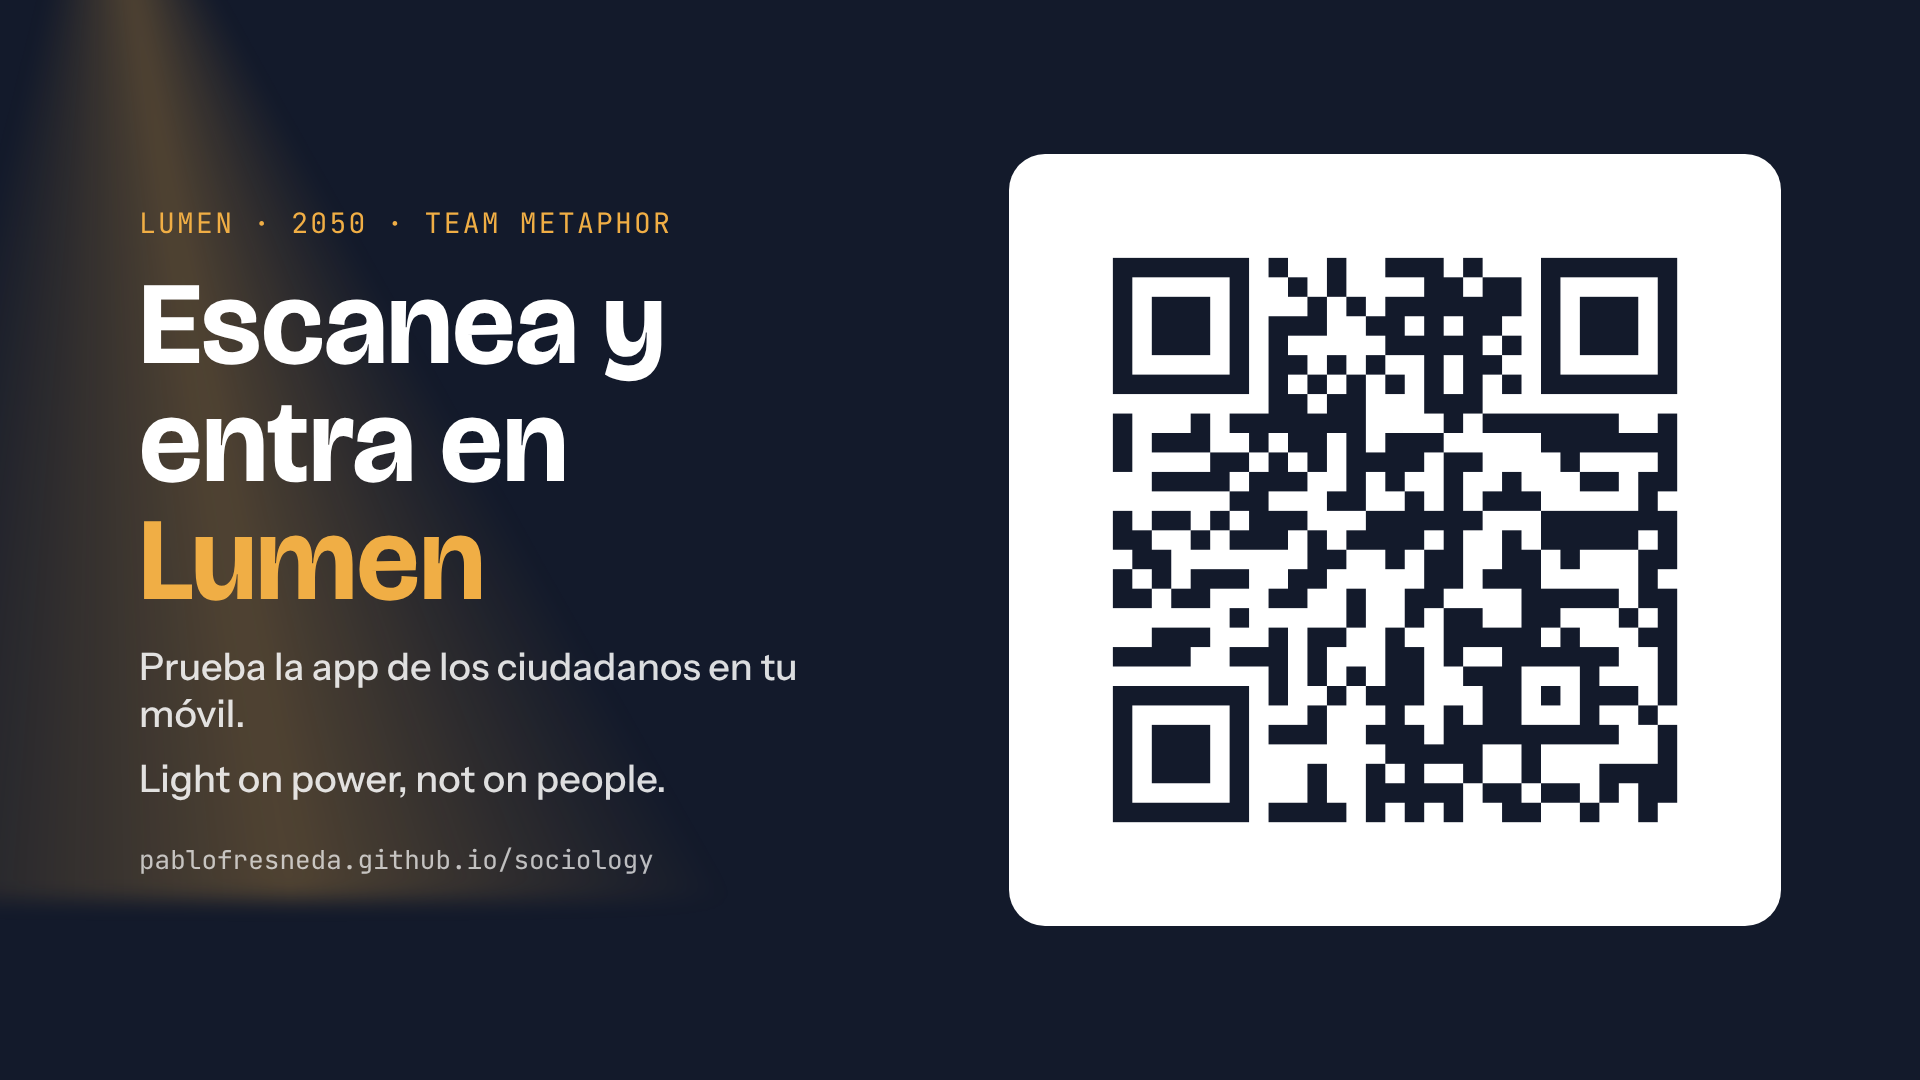
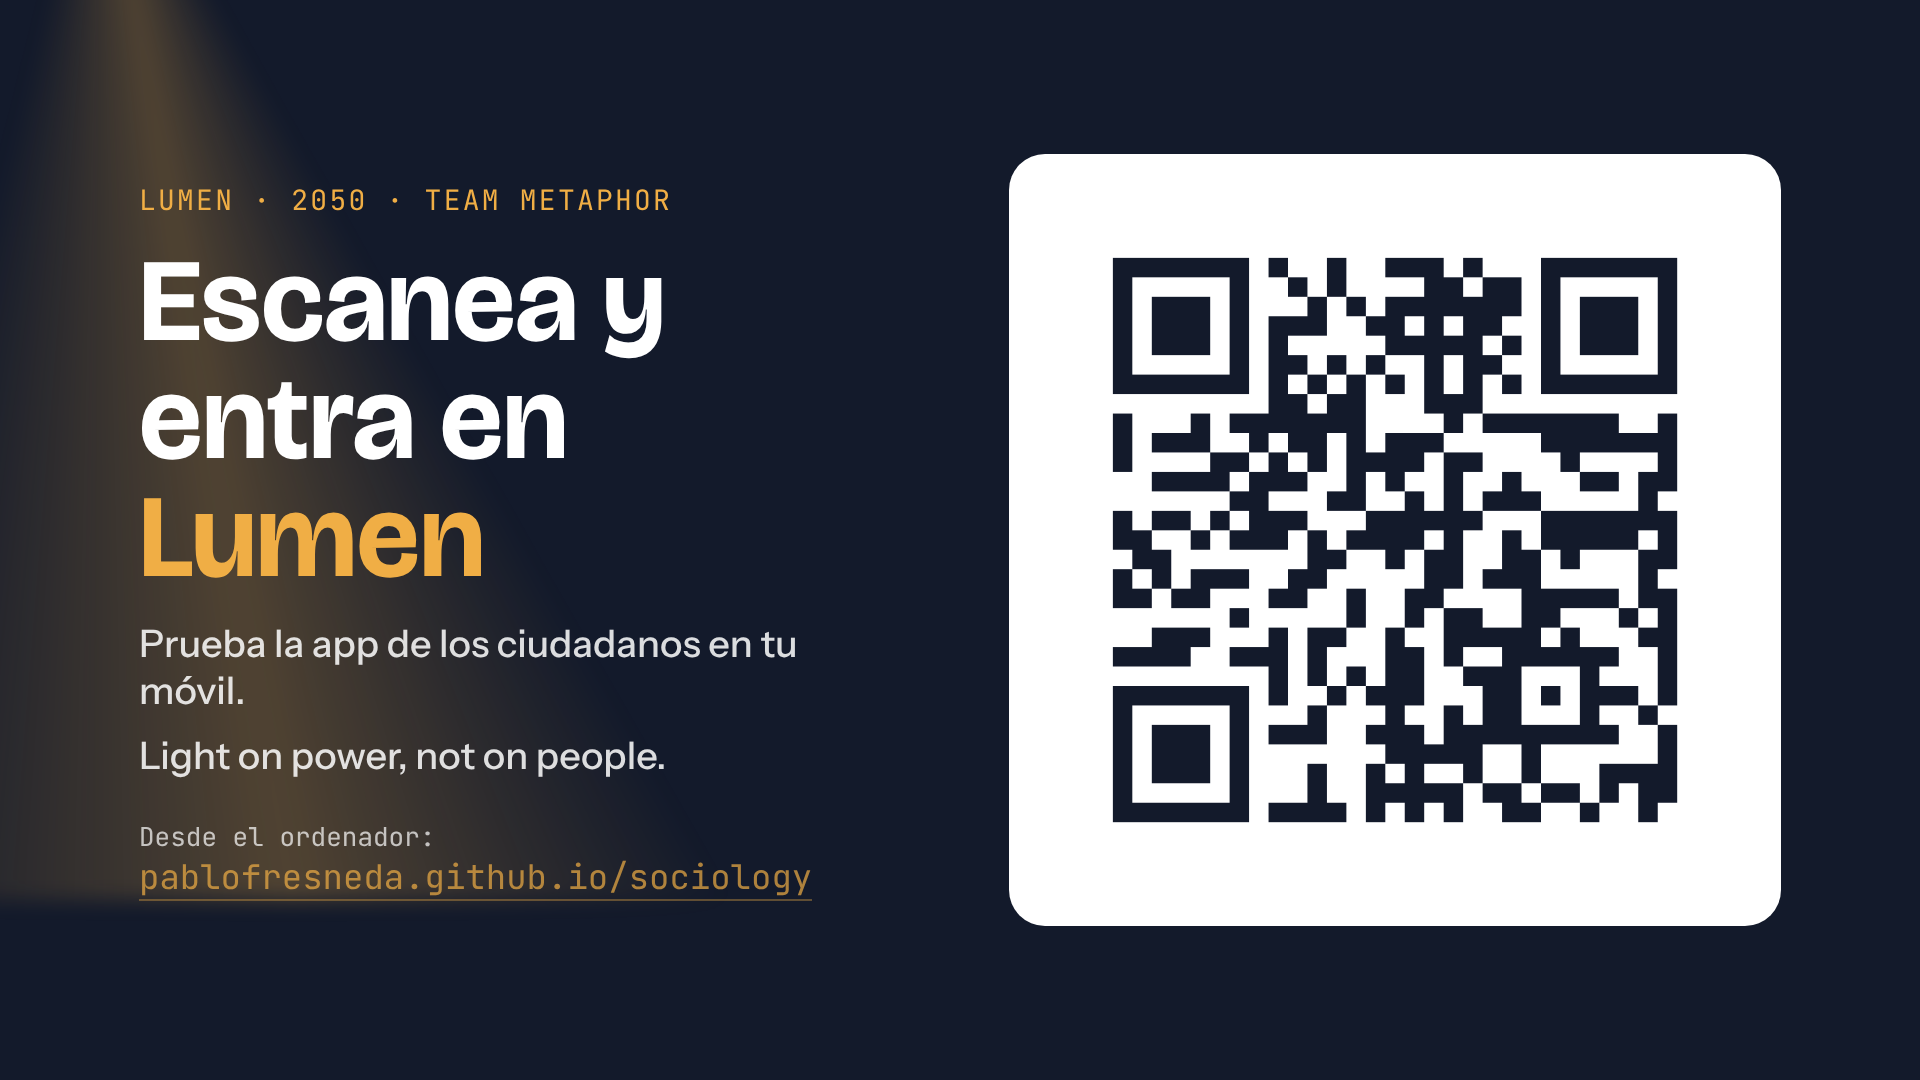
Add projectable QR page with a clickable link to the app
Claude-Session: https://claude.ai/code/session_01B463dRH8pQQhC9za2bYe1B

diff --git a/lumen-app/qr-slide.html b/lumen-app/qr-slide.html
@@ -1,11 +1,11 @@
-<!doctype html><html><head><meta charset="utf-8">
+<!doctype html><html><head><meta charset="utf-8"><meta name="viewport" content="width=device-width, initial-scale=1"><title>Lumen · Escanea</title>
 <link rel="stylesheet" href="https://fonts.googleapis.com/css2?family=Bricolage+Grotesque:opsz,wght@12..96,700&family=Instrument+Sans:wght@500&family=JetBrains+Mono&display=swap">
 <style>body{margin:0;width:1920px;height:1080px;background:#131A2B;color:#fff;font-family:"Instrument Sans",sans-serif;display:flex;align-items:center;justify-content:center;gap:110px;overflow:hidden;position:relative}
 body::before{content:"";position:absolute;top:-200px;left:-100px;width:1000px;height:1100px;background:conic-gradient(from 150deg at 20% 0%,transparent 0deg,rgba(240,174,69,.28) 20deg,transparent 45deg);filter:blur(10px)}
 .t{position:relative;max-width:760px} .e{font-family:"JetBrains Mono",monospace;color:#F0AE45;font-size:28px;letter-spacing:.08em}
 h1{font-family:"Bricolage Grotesque",sans-serif;font-size:118px;line-height:1;margin:24px 0} h1 em{font-style:normal;color:#F0AE45}
 p{font-size:38px;opacity:.85;margin:0 0 18px} .u{font-family:"JetBrains Mono",monospace;font-size:26px;opacity:.7;margin-top:40px}
-.q{position:relative;background:#fff;border-radius:36px;padding:26px} .q img{display:block;width:720px;height:720px}</style></head>
+a{color:#F0AE45;font-size:34px;font-weight:500;text-decoration:none;border-bottom:2px solid rgba(240,174,69,.5)} a:hover{border-bottom-color:#F0AE45} .q{position:relative;background:#fff;border-radius:36px;padding:26px} .q img{display:block;width:720px;height:720px}</style></head>
 <body><div class="t"><div class="e">LUMEN · 2050 · TEAM METAPHOR</div><h1>Escanea y entra en <em>Lumen</em></h1>
-<p>Prueba la app de los ciudadanos en tu móvil.</p><p>Light on power, not on people.</p><div class="u">pablofresneda.github.io/sociology</div></div>
[1 lines of base64/hex data omitted]
+<p>Prueba la app de los ciudadanos en tu móvil.</p><p>Light on power, not on people.</p><div class="u">Desde el ordenador:<br><a href="https://pablofresneda.github.io/sociology/">pablofresneda.github.io/sociology</a></div></div>
[1 lines of base64/hex data omitted]

diff --git a/qr/index.html b/qr/index.html
@@ -1,0 +1,11 @@
+<!doctype html><html><head><meta charset="utf-8"><meta name="viewport" content="width=device-width, initial-scale=1"><title>Lumen · Escanea</title>
+<link rel="stylesheet" href="https://fonts.googleapis.com/css2?family=Bricolage+Grotesque:opsz,wght@12..96,700&family=Instrument+Sans:wght@500&family=JetBrains+Mono&display=swap">
+<style>body{margin:0;width:1920px;height:1080px;background:#131A2B;color:#fff;font-family:"Instrument Sans",sans-serif;display:flex;align-items:center;justify-content:center;gap:110px;overflow:hidden;position:relative}
+body::before{content:"";position:absolute;top:-200px;left:-100px;width:1000px;height:1100px;background:conic-gradient(from 150deg at 20% 0%,transparent 0deg,rgba(240,174,69,.28) 20deg,transparent 45deg);filter:blur(10px)}
+.t{position:relative;max-width:760px} .e{font-family:"JetBrains Mono",monospace;color:#F0AE45;font-size:28px;letter-spacing:.08em}
+h1{font-family:"Bricolage Grotesque",sans-serif;font-size:118px;line-height:1;margin:24px 0} h1 em{font-style:normal;color:#F0AE45}
+p{font-size:38px;opacity:.85;margin:0 0 18px} .u{font-family:"JetBrains Mono",monospace;font-size:26px;opacity:.7;margin-top:40px}
+a{color:#F0AE45;font-size:34px;font-weight:500;text-decoration:none;border-bottom:2px solid rgba(240,174,69,.5)} a:hover{border-bottom-color:#F0AE45} .q{position:relative;background:#fff;border-radius:36px;padding:26px} .q img{display:block;width:720px;height:720px}</style></head>
+<body><div class="t"><div class="e">LUMEN · 2050 · TEAM METAPHOR</div><h1>Escanea y entra en <em>Lumen</em></h1>
+<p>Prueba la app de los ciudadanos en tu móvil.</p><p>Light on power, not on people.</p><div class="u">Desde el ordenador:<br><a href="https://pablofresneda.github.io/sociology/">pablofresneda.github.io/sociology</a></div></div>
[1 lines of base64/hex data omitted]
